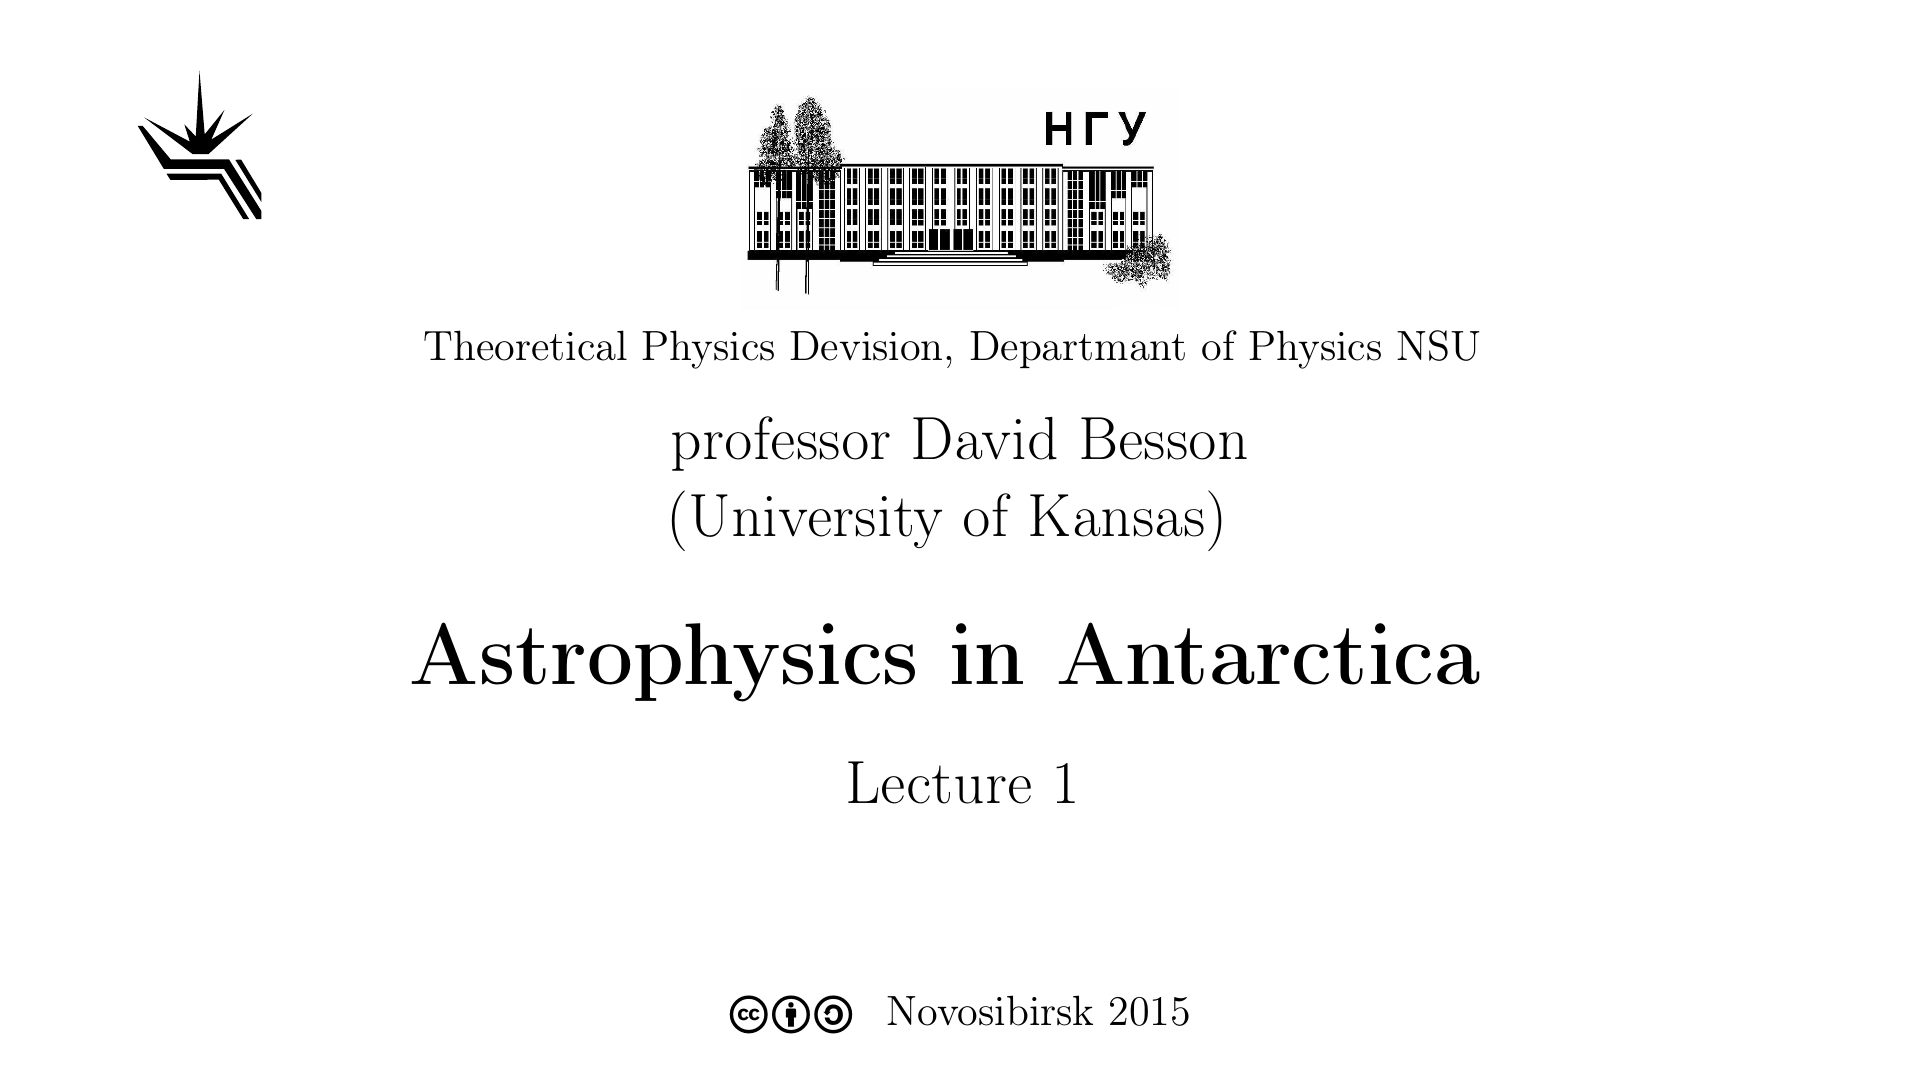
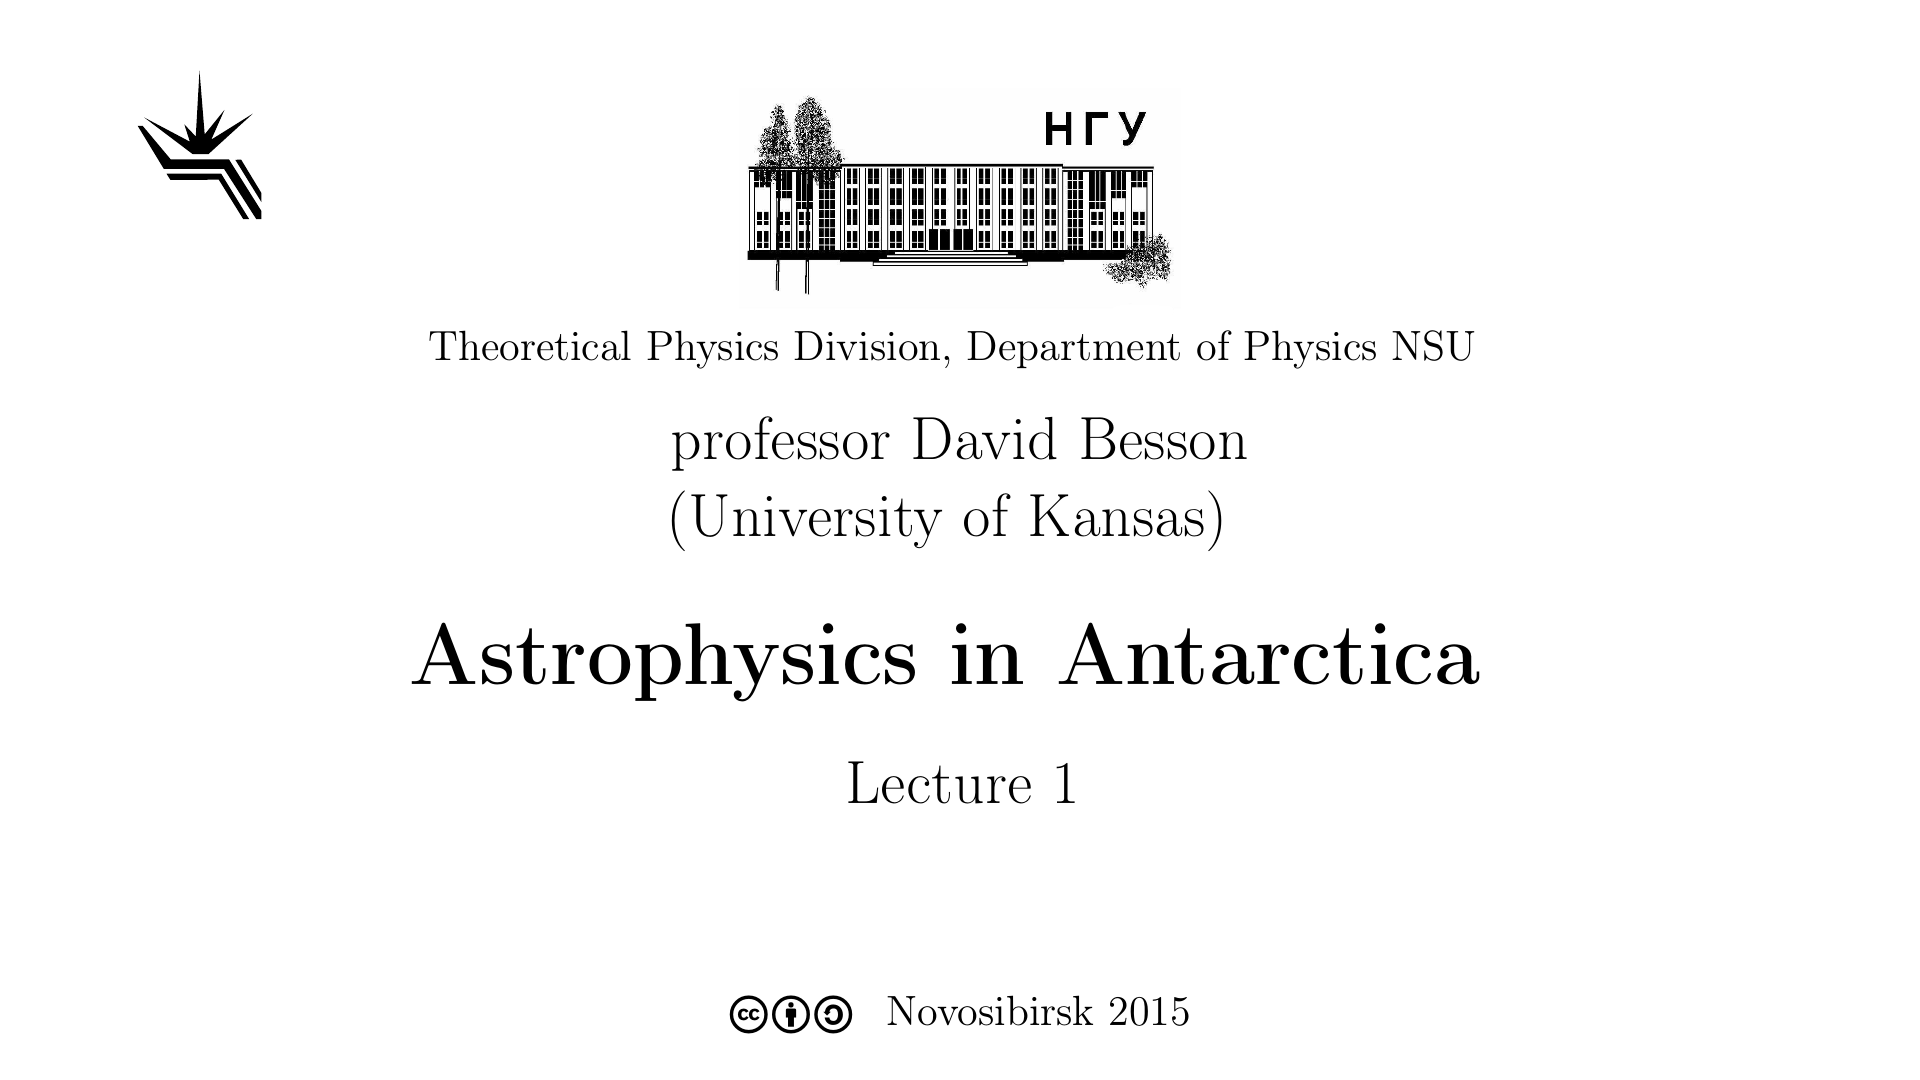
typos

Changed region(s): [[0.2188, 0.3056, 0.7812, 0.3361]]

diff --git a/Cover/Astrophysics_in_Antarctica_Lectures_Besson_Spring_2015/Astrophysics_in_Antarctica_David_Besson_Lecture01.tex b/Cover/Astrophysics_in_Antarctica_Lectures_Besson_Spring_2015/Astrophysics_in_Antarctica_David_Besson_Lecture01.tex
@@ -33,7 +33,7 @@
     \hfill
     \hspace*{6em}
 
-    Theoretical Physics Devision, Departmant of Physics NSU
+    Theoretical Physics Division, Department of Physics NSU
     \medskip
 
     \Large

diff --git a/Cover/Astrophysics_in_Antarctica_Lectures_Besson_Spring_2015/Astrophysics_in_Antarctica_David_Besson_Lecture02.tex b/Cover/Astrophysics_in_Antarctica_Lectures_Besson_Spring_2015/Astrophysics_in_Antarctica_David_Besson_Lecture02.tex
@@ -33,7 +33,7 @@
     \hfill
     \hspace*{6em}
 
-    Theoretical Physics Devision, Departmant of Physics NSU
+    Theoretical Physics Division, Department of Physics NSU
     \medskip
 
     \Large

diff --git a/Cover/Astrophysics_in_Antarctica_Lectures_Besson_Spring_2015/Astrophysics_in_Antarctica_David_Besson_Lecture03.tex b/Cover/Astrophysics_in_Antarctica_Lectures_Besson_Spring_2015/Astrophysics_in_Antarctica_David_Besson_Lecture03.tex
@@ -33,7 +33,7 @@
     \hfill
     \hspace*{6em}
 
-    Theoretical Physics Devision, Departmant of Physics NSU
+    Theoretical Physics Division, Department of Physics NSU
     \medskip
 
     \Large

diff --git a/Cover/Astrophysics_in_Antarctica_Lectures_Besson_Spring_2015/Astrophysics_in_Antarctica_David_Besson_Lecture04.tex b/Cover/Astrophysics_in_Antarctica_Lectures_Besson_Spring_2015/Astrophysics_in_Antarctica_David_Besson_Lecture04.tex
@@ -33,7 +33,7 @@
     \hfill
     \hspace*{6em}
 
-    Theoretical Physics Devision, Departmant of Physics NSU
+    Theoretical Physics Division, Department of Physics NSU
     \medskip
 
     \Large

diff --git a/Cover/Astrophysics_in_Antarctica_Lectures_Besson_Spring_2015/Astrophysics_in_Antarctica_David_Besson_Lecture05.tex b/Cover/Astrophysics_in_Antarctica_Lectures_Besson_Spring_2015/Astrophysics_in_Antarctica_David_Besson_Lecture05.tex
@@ -33,7 +33,7 @@
     \hfill
     \hspace*{6em}
 
-    Theoretical Physics Devision, Departmant of Physics NSU
+    Theoretical Physics Division, Department of Physics NSU
     \medskip
 
     \Large
